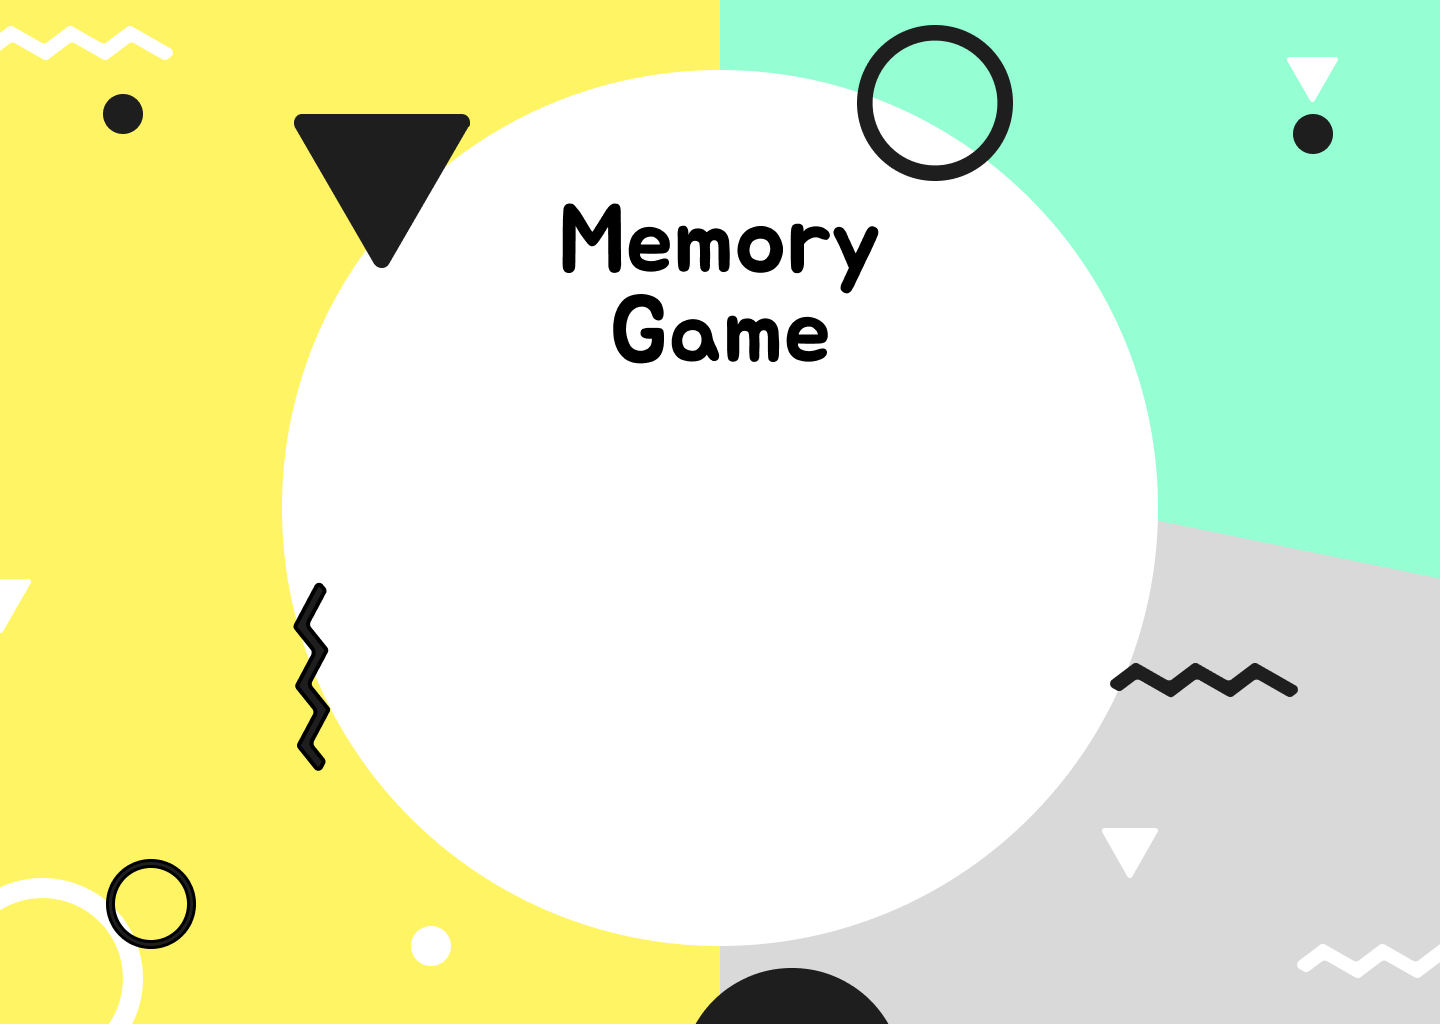
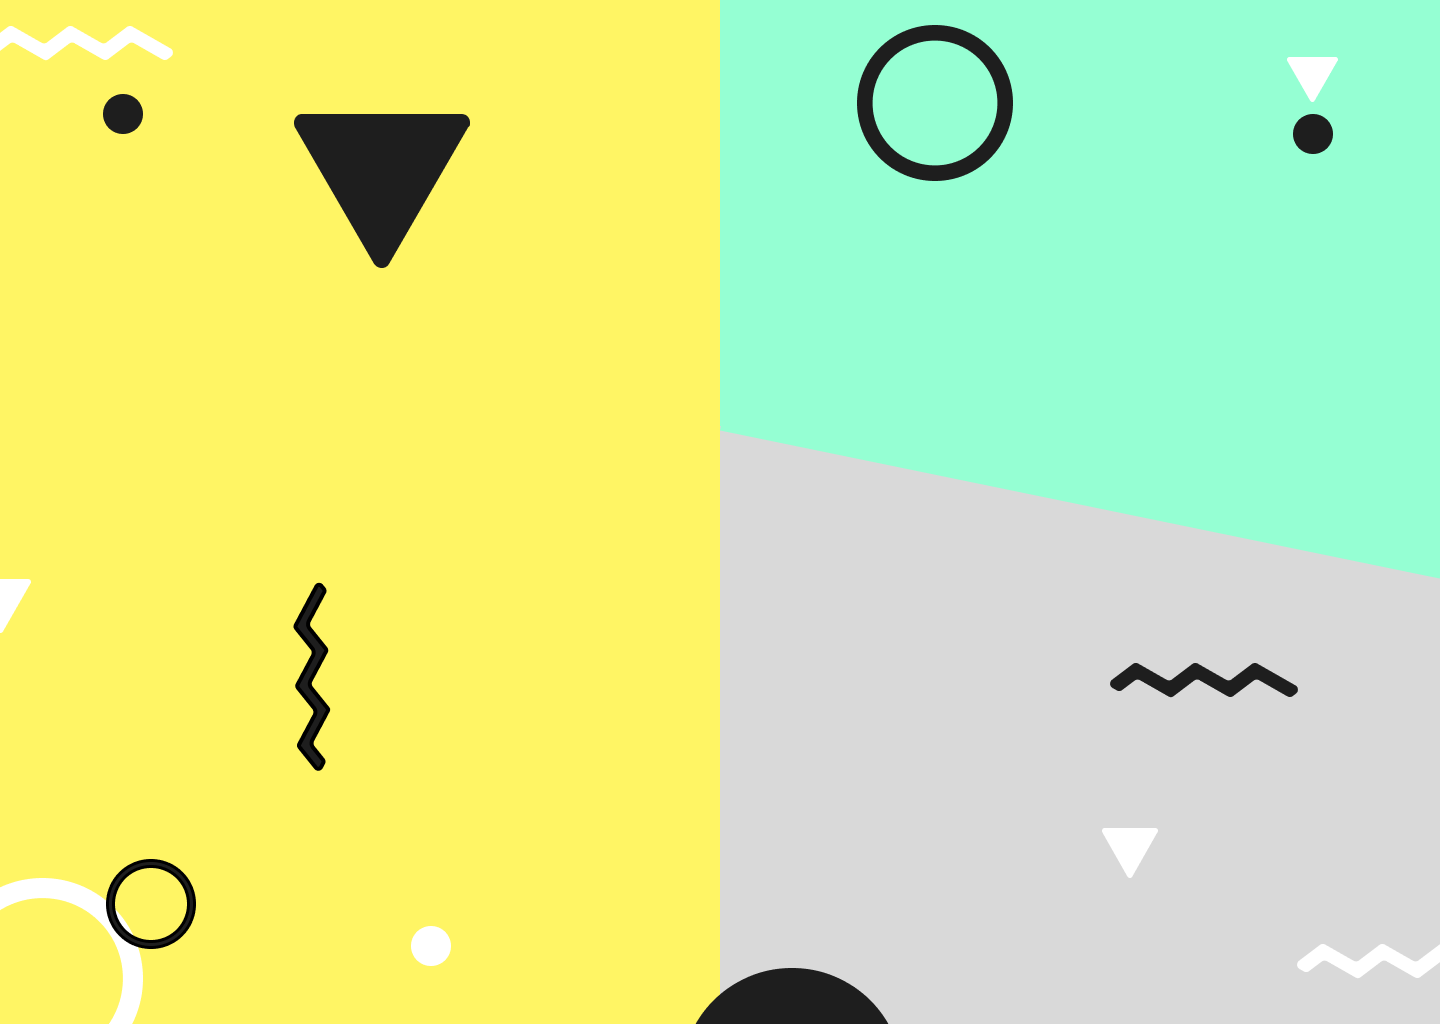
startWindow

diff --git a/mem/src/StartGame/Welcome.css b/mem/src/StartGame/Welcome.css
@@ -1,0 +1,56 @@
+.start-screen-welcome {
+    position: relative;
+    width: 100%;
+    height: 100vh;
+    overflow: hidden;
+    display: flex;
+    justify-content: center;
+    align-items: center;
+}
+
+.background-image {
+    position: absolute;
+    top: 50%;
+    left: 50%;
+    transform: translate(-50%, -50%);
+    width: auto;
+    height: 100%;
+    min-width: 100%;
+    object-fit: cover;
+    z-index: -1;
+}
+
+.buttons-container {
+    display: flex;
+    flex-direction: column;
+    gap: 20px;
+    z-index: 1;
+}
+
+button {
+    padding: 15px 30px;
+    font-size: 30px;
+    font-family:'Gill Sans', 'Gill Sans MT', Calibri, 'Trebuchet MS', sans-serif;
+    border: none;
+    border-radius: 30px;
+    cursor: pointer;
+    font-weight: 600;
+    transition: transform 0.2s, background-color 0.2s;
+}
+.game-pairs {
+    background-color: #95FFD3;
+    color: black; 
+}
+
+.game-pairs:hover {
+    transform: scale(1.05);
+}
+
+.game-path {
+    background-color: #FFF564;
+    color: black;
+}
+
+.game-path:hover {
+    transform: scale(1.05);
+}

diff --git a/mem/src/App.js b/mem/src/App.js
@@ -1,19 +1,21 @@
 import React, { useState } from 'react';
+import { BrowserRouter as Router, Route, Routes } from 'react-router-dom';
 import StartScreen from './componentsCards/StartScreen';
-//import GameBoard from './GameBoard';
+import GameBoard from './componentsPath/GameBoard'
 import MainWindow from './componentsCards/MainWindow';
+import Welcome from './StartGame/Welcome'
 
 const App = () => {
-  const [isGameStarted, setIsGameStarted] = useState(false);
-
-  const startGame = () => {
-    setIsGameStarted(true);
-  };
-
   return (
-    <div className="app">
-      {isGameStarted ? <MainWindow /> : <StartScreen onStart={startGame} />}
-    </div>
+    <Router>
+          <div className="app">
+            <Routes>
+              <Route path="/" element={<Welcome />} />
+              <Route path="/gamePairs" element={<MainWindow />} />
+              <Route path="/gamePath" element={<GameBoard />} />
+            </Routes>
+          </div>
+    </Router>
   );
 };
 

diff --git a/mem/src/StartGame/Welcome.js b/mem/src/StartGame/Welcome.js
@@ -1,0 +1,21 @@
+import React from 'react';
+import './Welcome.css';
+import background from '../images/j.png';
+
+import { useNavigate } from 'react-router-dom';
+
+const Welcome = () => {
+    const navigate = useNavigate();
+    return (
+        <div className="start-screen-welcome">
+            <img src={background} alt="Background" className="background-image" />
+            <div className='buttons-container'>
+                <button onClick={() => navigate('/gamePairs')} className='game-pairs'>Дублеты</button>
+                <button onClick={() => navigate('/gamePath')} className='game-path'>Путь ниндзя</button>
+            </div>
+           
+        </div>
+    );
+};
+
+export default Welcome;
